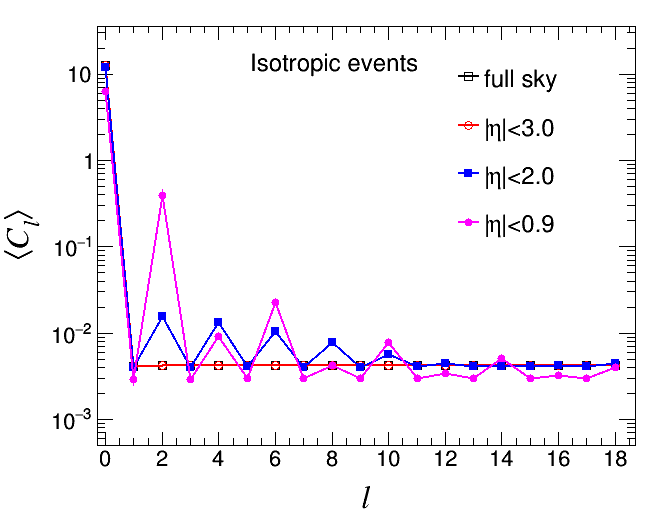
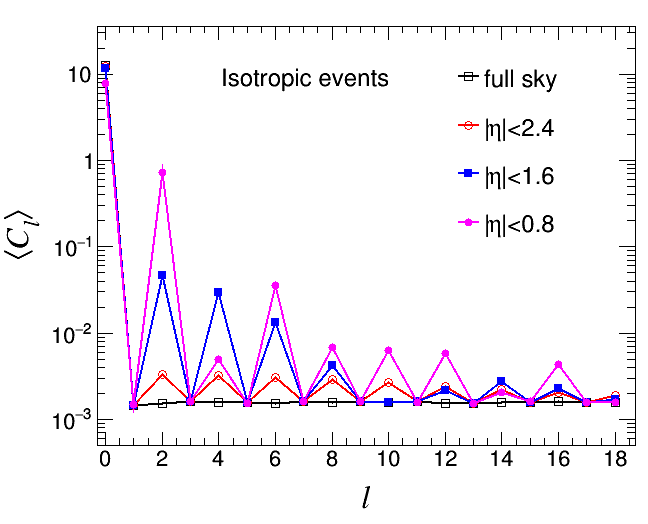
new fig4

diff --git a/healpy/figures/fig4/figure4.C b/healpy/figures/fig4/figure4.C
@@ -3,11 +3,11 @@ void figure4(){
   ifstream fileIn;
   fileIn.open("cl_full.txt");
   ifstream fileIn30;
-  fileIn30.open("cl_eta30.txt");
+  fileIn30.open("cl_eta24.txt");
   ifstream fileIn20;
-  fileIn20.open("cl_eta20.txt");
+  fileIn20.open("cl_eta16.txt");
   ifstream fileIn09;
-  fileIn09.open("cl_eta09.txt");
+  fileIn09.open("cl_eta08.txt");
  
   const int nL = 24;
   double cL[nL];
@@ -109,12 +109,12 @@ void figure4(){
     leg->SetTextSize(0.05);
     //leg->SetLineStyle(0.06);
     leg->AddEntry(gr2,"full sky","pl");
-    leg->AddEntry(gr3,"|#eta|<3.0","pl");
-    leg->AddEntry(gr4,"|#eta|<2.0","pl");
-    leg->AddEntry(gr5,"|#eta|<0.9","pl");
+    leg->AddEntry(gr3,"|#eta|<2.4","pl");
+    leg->AddEntry(gr4,"|#eta|<1.6","pl");
+    leg->AddEntry(gr5,"|#eta|<0.8","pl");
     leg->Draw();
 
-    TLatex *tex2= new TLatex(5.1, 10.6,"Isotropic events");
+    TLatex *tex2= new TLatex(4.1, 7.2,"Isotropic events");
     tex2->SetTextColor(1);
     tex2->SetTextSize(0.05);
     tex2->SetTextFont(42);
